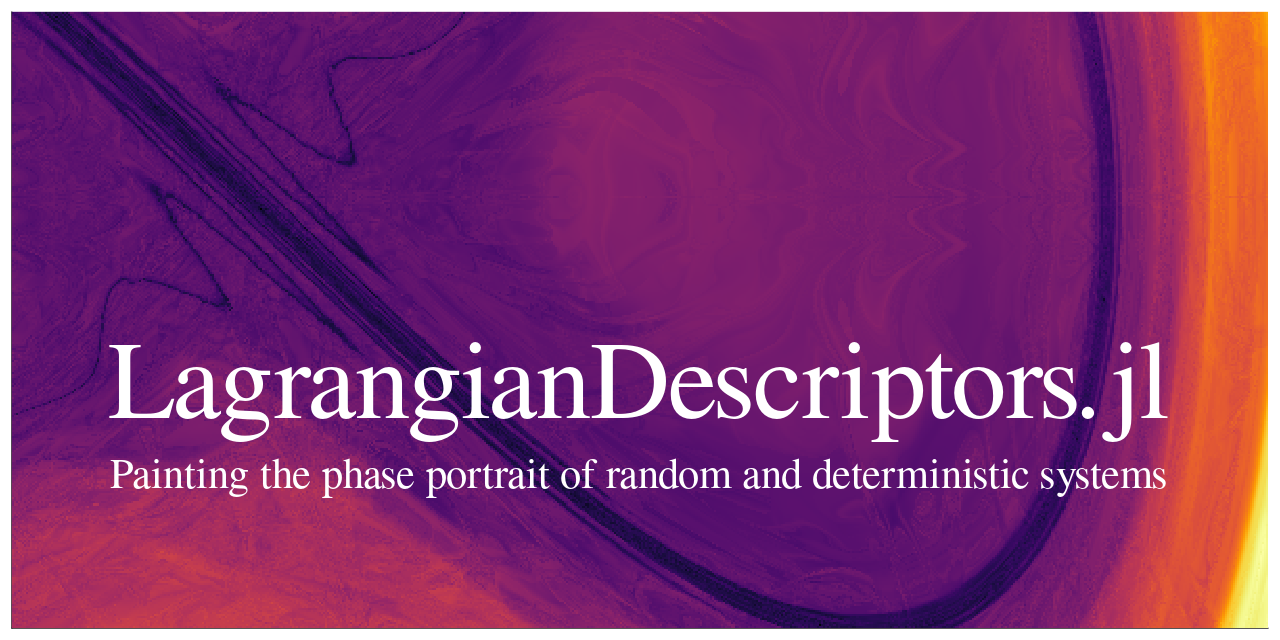
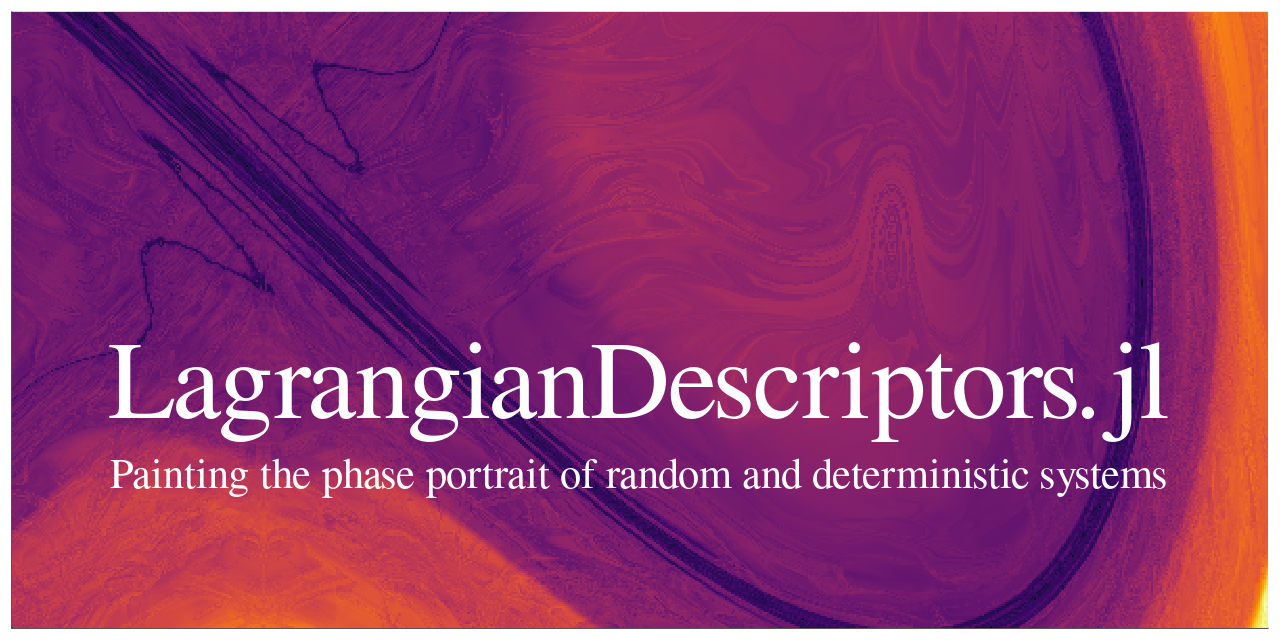
fix cos to sin in duffing's social preview

diff --git a/docs/src/social_preview.md b/docs/src/social_preview.md
@@ -11,7 +11,7 @@ function f!(du, u, p, t)
     x, y = u
     A, ω = p
     du[1] = y
-    du[2] = x - x^3 + A * cos(ω * t)
+    du[2] = x - x^3 + A * sin(ω * t)
 end
 
 u0 = [0.5, 2.2]
@@ -20,7 +20,7 @@ A = 5.0; ω = 2π; p = (A, ω);
 prob = ODEProblem(f!, u0, tspan, p)
 
 M(du, u, p, t) = norm(du)
-uu0 = [[x, y] for y in range(-0.7, 0.3, length=301), x in range(-0.5, 1.5, length=601)]
+uu0 = [[x, y] for y in range(-1.5, -0.5, length=301), x in range(-0.4, 1.6, length=601)]
 lagprob = LagrangianDescriptorProblem(prob, M, uu0)
 
 lagsol = solve(lagprob, Tsit5())
@@ -29,7 +29,7 @@ lagsol = solve(lagprob, Tsit5())
 ```julia social-preview
 plot(lagsol, :forward, size=(1280, 640), colorbar=false, axes=false, ticks=false)
 
-annotate!([(0.5,-0.3,text("LagrangianDescriptors.jl",68, :white, :center, "Times")),(0.5,-0.45, text("Painting the phase portrait of random and deterministic systems", 26, :white, :center, "Times"))])
+annotate!([(0.6,-1.1,text("LagrangianDescriptors.jl",68, :white, :center, "Times")),(0.6,-1.25, text("Painting the phase portrait of random and deterministic systems", 26, :white, :center, "Times"))])
 ```
 
 ```julia social-preview

diff --git a/docs/src/index.md b/docs/src/index.md
@@ -23,7 +23,7 @@ function f!(du, u, p, t)
     x, y = u
     A, ω = p
     du[1] = y
-    du[2] = x - x^3 + A * cos(ω * t)
+    du[2] = x - x^3 + A * sin(ω * t)
 end
 
 u0 = [0.5, 2.2]
@@ -32,12 +32,10 @@ A = 5.0; ω = 2π; p = (A, ω);
 prob = ODEProblem(f!, u0, tspan, p)
 
 M(du, u, p, t) = norm(du)
-uu0 = [[x, y] for y in range(-0.7, 0.3, length=301), x in range(-0.5, 1.5, length=601)]
+uu0 = [[x, y] for y in range(-1.5, -0.5, length=301), x in range(-0.4, 1.6, length=601)]
 lagprob = LagrangianDescriptorProblem(prob, M, uu0)
 
 lagsol = solve(lagprob, Tsit5())
-
-plot(lagsol, :forward, size=(1280, 640), colorbar=false, axes=false, ticks=false)
 ```
 
 ## Method
